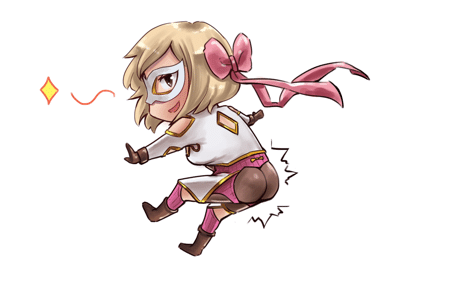
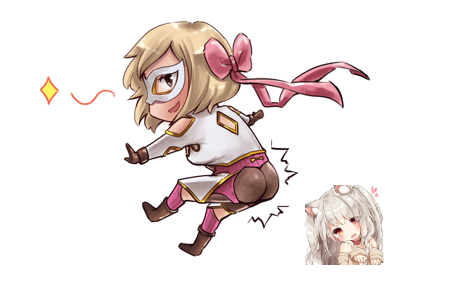
added !banana and !poke, renamed action images

Changed region(s): [[0.6533, 0.6479, 0.8711, 0.9577]]

diff --git a/index.js b/index.js
@@ -308,24 +308,43 @@ bot.on('message',(message) => {
         message.reply("I choose " + "**" + options[pick].trim() + "**");
     }
 
-    if(message.content.substr(0,9) == '!buttblow'){
+    if(message.content.substr(0,9) == '!buttblow' || message.content.substr(0,7) == '!banana' || message.content.substr(0,5) == '!poke'){
+
         var url = message.mentions.users.first().avatarURL;
-        var originalFile = './action_images/buttblow_out.png';
-        var outputFile = './action_images/buttblow_dp.png';
-        var avatarFile = './action_images/buttblow_avatar.png';
+        var originalFile;
+        var avatarFile = './action_images/avatar.png';;
+        var outputFile;
+        var width,height,x,y;
+
+        if(message.content.substr(0,9) == '!buttblow'){
+            originalFile = './action_images/buttblow.png';
+            outputFile = './action_images/buttblow_out.png'; 
+            width = 80;height = 80;
+            x = 305; y = 185; 
+        }else if(message.content.substr(0,7) == '!banana'){
+            originalFile = './action_images/banana.png';
+            outputFile = './action_images/banana_out.png';
+            width = 60;height = 60;
+            x = 241; y = 172; 
+        }else if(message.content.substr(0,5) == '!poke'){
+            originalFile = './action_images/poke.png';
+            outputFile = './action_images/poke_out.png';
+            width = 70;height = 70;
+            x = 335; y = 160; 
+        }
 
         if(url != null){
             var obj = url.indexOf('.png');
             var trueURL = url.substr(0,obj+4);
             jimp.read(trueURL)
             .then(function (image) {
-                image.resize(80, 80,jimp.RESIZE_BILINEAR)                               
+                image.resize(width, height,jimp.RESIZE_BILINEAR)                               
                 .write(avatarFile,function(){
                     jimp.read(avatarFile)
                     .then(function (image){
                         jimp.read(originalFile)
-                        .then(function(buttImg){
-                            buttImg.composite(image,305,185)
+                        .then(function(actionImg){
+                            actionImg.composite(image,x,y)
                             .write(outputFile,function(){
                                 message.channel.send({file:outputFile}).catch(console.error());
                             });  
@@ -341,8 +360,8 @@ bot.on('message',(message) => {
 
 
     if(message.content.substr(0,5) == "!slap"){
-        var outputFile = "./action_images/slap_name.png";
-        var originalFile = "./action_images/slap_out.png";
+        var outputFile = "./action_images/slap_out.png";
+        var originalFile = "./action_images/slap.png";
         var imageCaption;
         if(message.mentions.users.array().length == 0){
             imageCaption = message.content.substr(6);
